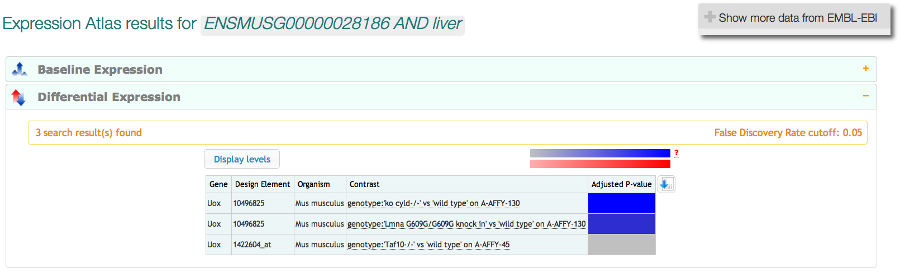
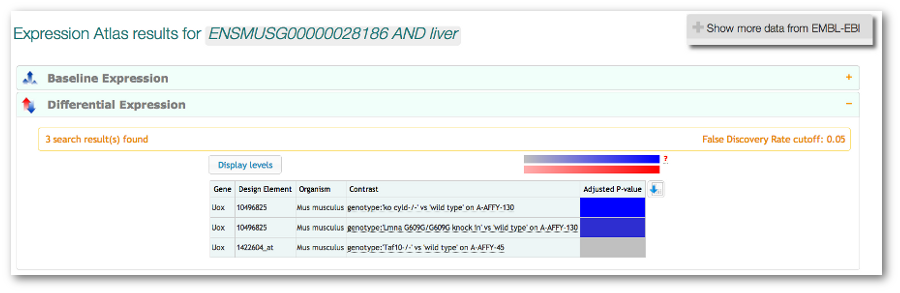
shadows on images in help index page, minor fix to about page

Changed region(s): [[0.0, 0.0, 0.9956, 0.967]]

diff --git a/web/src/main/webapp/resources/html/about.html b/web/src/main/webapp/resources/html/about.html
@@ -4,9 +4,9 @@
 <p>The Expression Atlas provides information on gene expression patterns
 under different biological conditions such as a gene knock out, a
 plant treated with a compound, or in a particular organism part or
-cell. It includes both microarray and RNA-seq
-data.  The data is <a href="FAQ.html#microarrayAnalysis">re-analysed
-in-house</a> to detect interesting
+cell. It includes both <a href="FAQ.html#microarrayAnalysis">microarray</a> and <a href="FAQ.html#rnaseqAnalysis">RNA-seq</a>
+data.  The data is re-analysed
+in-house to detect interesting
 expression patterns under the conditions of the original experiment.
 
 There are two components to the Expression Atlas, the Baseline Atlas
@@ -30,7 +30,7 @@ and the Differential Atlas:</p>
   data for several mammalian species as well as opossum and rice. New
   experiments are added as they become available.</p>
 
-  <p>See the <a href="help/baseline_atlas.html">Baseline Atlas
+  <p>See the <a href="help/baseline-atlas.html">Baseline Atlas
   help</a> page for information about how to search and interpret the
   results in the Baseline Atlas.</p>
 </li>

diff --git a/web/src/main/webapp/resources/html/help/index.html b/web/src/main/webapp/resources/html/help/index.html
@@ -12,7 +12,7 @@ well as the <a href="FAQ.html">FAQ</a>.
 
 <h3>How to search</h3>
 
-<p>From the <a href="gxa/">home page</a> you can search to find out which genes
+<p>From the <a href="/gxa">home page</a> you can search to find out which genes
 are expressed in various biological conditions.</p>
 
 <p><img src="resources/images/help/homepage_help.png" alt="Expression Atlas home page" /></p>
